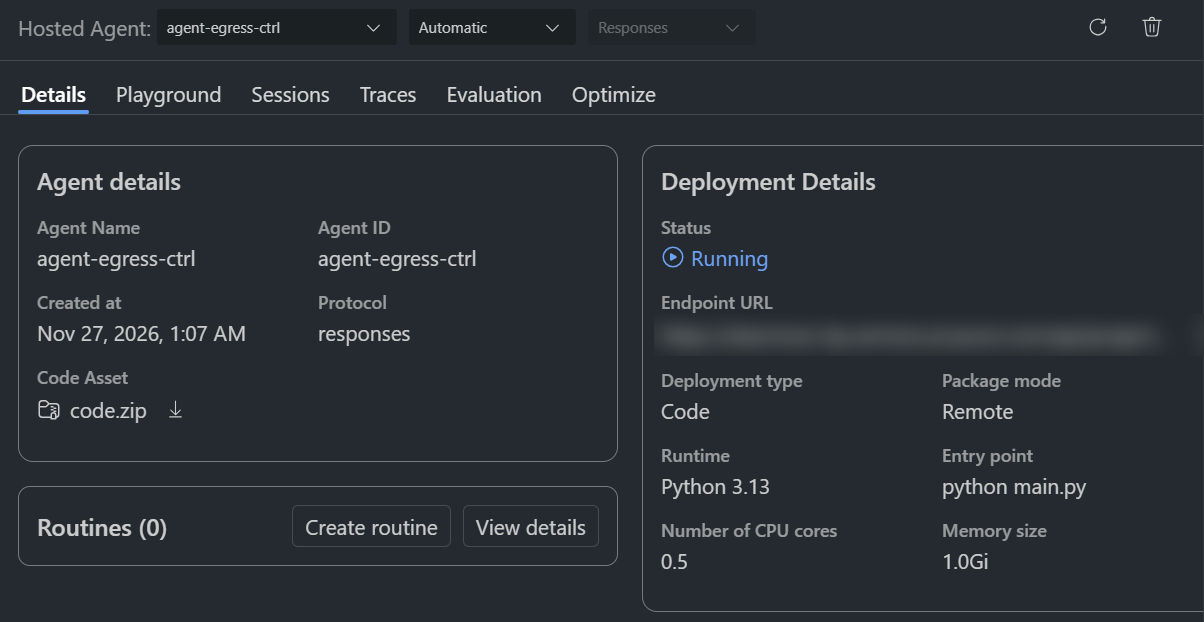
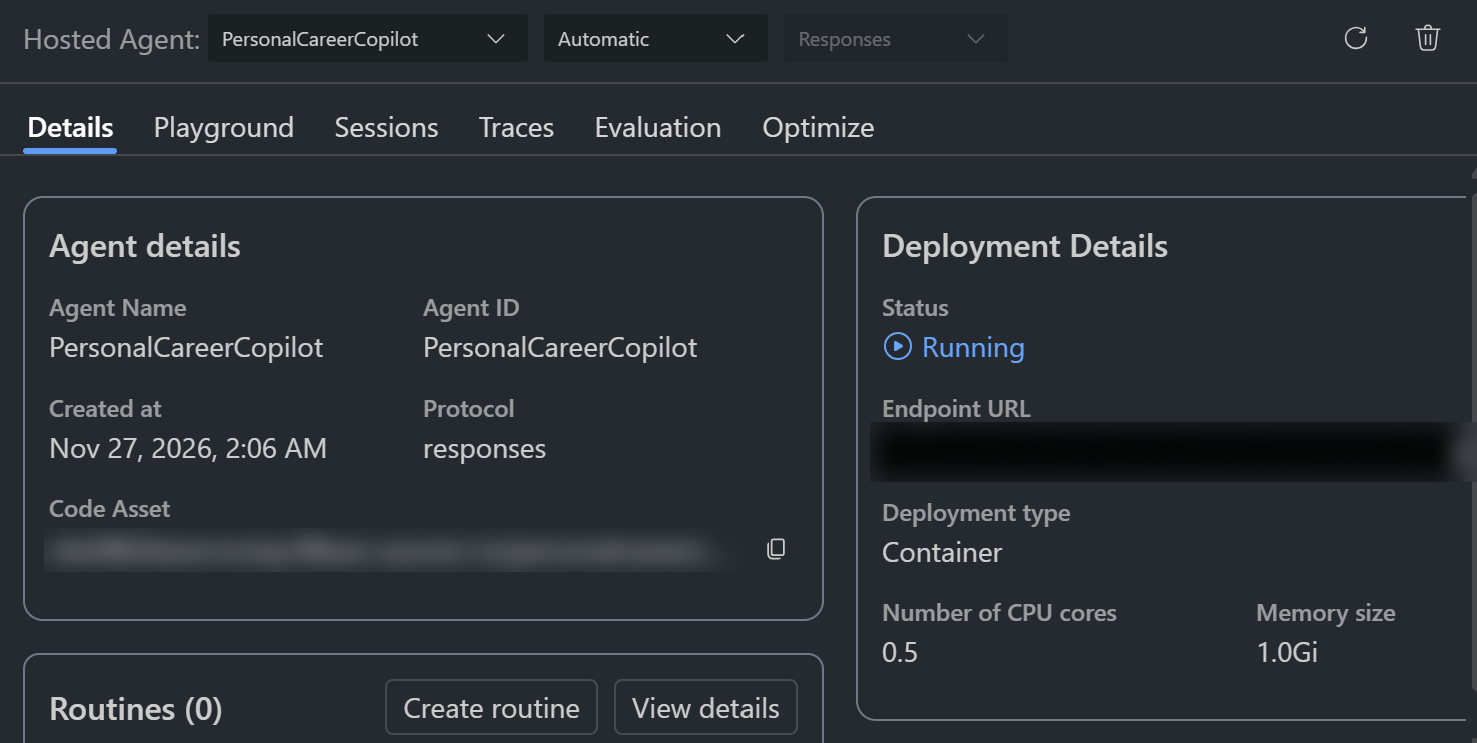
docs(lab02): show PersonalCareerCopilot in the deployment status screenshot
Replace the example-agent screenshot with the lab's own agent,
deployed with the recommended Container method, and drop the notes
that explained the different agent name.

diff --git a/workshop/lab02-multi-agent/docs/06-deploy-to-foundry.md b/workshop/lab02-multi-agent/docs/06-deploy-to-foundry.md
@@ -140,8 +140,6 @@ Watch the VS Code **Output** panel (select "Microsoft Foundry" dropdown):
 
 ![Hosted agent playground open on the Details tab, with Deployment Details showing the agent's status as Running](images/06-foundry-sidebar-agent-status.png)
 
-> *Screenshot shows an example agent. Your agent's name appears in the same places.*
-
 | Status | Meaning |
 |--------|---------|
 | **active** | Agent is running and ready to accept requests |

diff --git a/workshop/lab02-multi-agent/docs/07-verify-in-playground.md b/workshop/lab02-multi-agent/docs/07-verify-in-playground.md
@@ -29,8 +29,6 @@ A misconfigured env var, RBAC issue, or blocked MCP outbound call would show up 
 
 ![Hosted agent playground open on the Details tab, with Deployment Details showing the agent's status as Running](images/06-foundry-sidebar-agent-status.png)
 
-> *Screenshot shows an example agent. Your agent's name appears in the same places.*
-
 ### Step 2: Check the status
 
 1. The **Hosted agent playground** opens on the **Details** tab.
